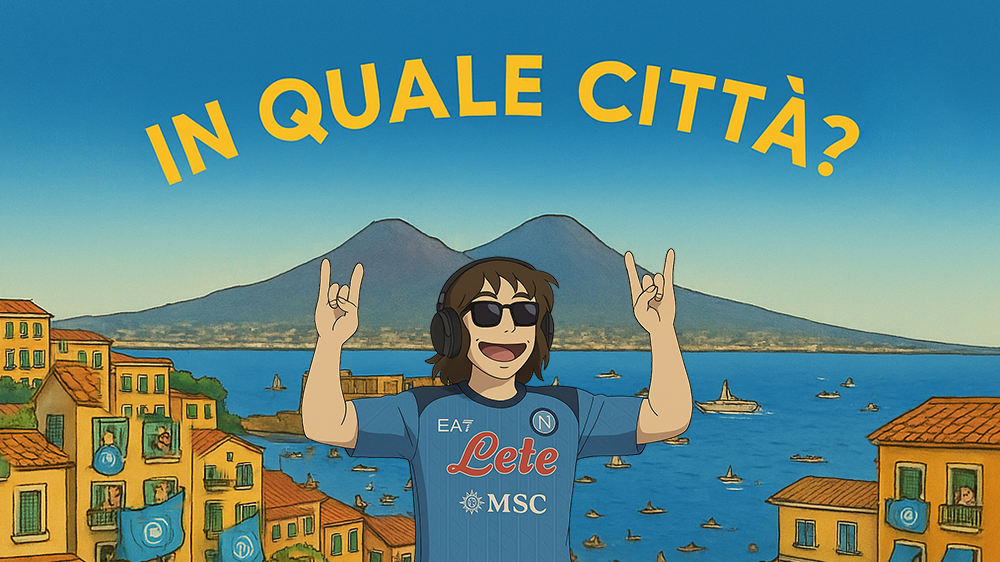
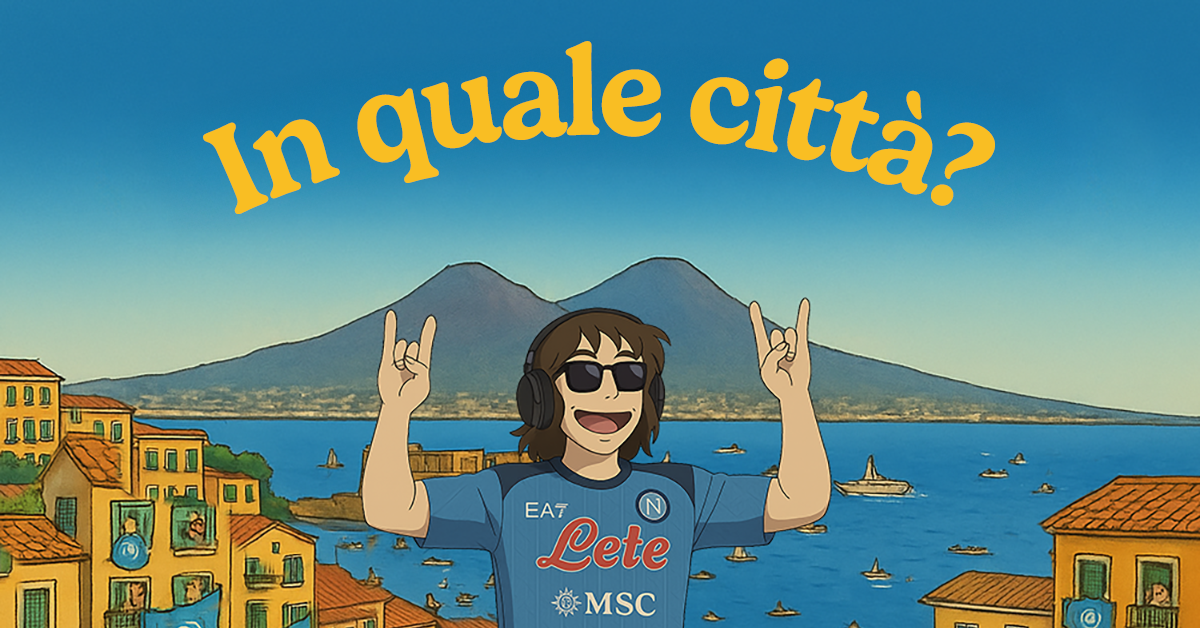
Updated website images
Updated website images and meta tags to use new versions of the preview image, favicon, and apple touch icon.  The `client/index.html` file was modified to reflect these changes, updating image URLs in `<meta>` tags and adjusting image dimensions and alt text.  A new iOS icon was also added.

Replit-Commit-Author: Agent
Replit-Commit-Session-Id: 36c2e9e8-fe87-45fb-821e-268bd837deca
Replit-Commit-Screenshot-Url: https://storage.googleapis.com/screenshot-production-us-central1/70bad33f-4b80-4730-98aa-9ab20aa0b2f9/1d030549-b5e9-42a2-a559-9e1b6d51d62a.jpg

diff --git a/client/index.html b/client/index.html
@@ -11,26 +11,26 @@
     <meta property="og:description" content="In quale città? Premi il pulsante per ascoltare!" />
     <meta property="og:type" content="website" />
     <meta property="og:url" content="https://suononapoletano.com" />
-    <meta property="og:image" content="https://res.cloudinary.com/djqygjwnv/image/upload/v1744856254/preview-napoli-1200x1200_vbdgbo.jpg" />
-    <meta property="og:image:secure_url" content="https://res.cloudinary.com/djqygjwnv/image/upload/v1744856254/preview-napoli-1200x1200_vbdgbo.jpg" />
-    <meta property="og:image:type" content="image/jpeg" />
+    <meta property="og:image" content="https://suononapoletano.replit.app/assets/preview.png" />
+    <meta property="og:image:secure_url" content="https://suononapoletano.replit.app/assets/preview.png" />
+    <meta property="og:image:type" content="image/png" />
     <meta property="og:image:width" content="1200" />
-    <meta property="og:image:height" content="1200" />
-    <meta property="og:image:alt" content="Napoli skyline with Mount Vesuvius and 'IN QUALE CITTÀ?' text" />
+    <meta property="og:image:height" content="630" />
+    <meta property="og:image:alt" content="Napoli fan with headphones, blue jersey and Mount Vesuvius in background with 'IN QUALE CITTÀ?' text" />
     <meta property="og:site_name" content="Suono Napoletano" />
     <meta property="og:locale" content="it_IT" />
     
     <!-- Specific WhatsApp Meta Tags -->
-    <meta property="og:image:secure_url:app_whatsapp" content="https://res.cloudinary.com/djqygjwnv/image/upload/v1744856254/preview-napoli-1200x1200_vbdgbo.jpg" />
+    <meta property="og:image:secure_url:app_whatsapp" content="https://suononapoletano.replit.app/assets/preview.png" />
 
     <!-- Twitter Card -->
     <meta name="twitter:card" content="summary_large_image" />
     <meta name="twitter:title" content="Suono Napoletano" />
     <meta name="twitter:description" content="In quale città? Premi il pulsante per ascoltare!" />
-    <meta name="twitter:image" content="https://res.cloudinary.com/djqygjwnv/image/upload/v1744856254/preview-napoli-1200x1200_vbdgbo.jpg" />
+    <meta name="twitter:image" content="https://suononapoletano.replit.app/assets/preview.png" />
 
     <!-- Google -->
-    <meta itemprop="image" content="https://res.cloudinary.com/djqygjwnv/image/upload/v1744856254/preview-napoli-1200x1200_vbdgbo.jpg" />
+    <meta itemprop="image" content="https://suononapoletano.replit.app/assets/preview.png" />
 
     <!-- Canonical & base -->
     <link rel="canonical" href="https://suononapoletano.com/" />
